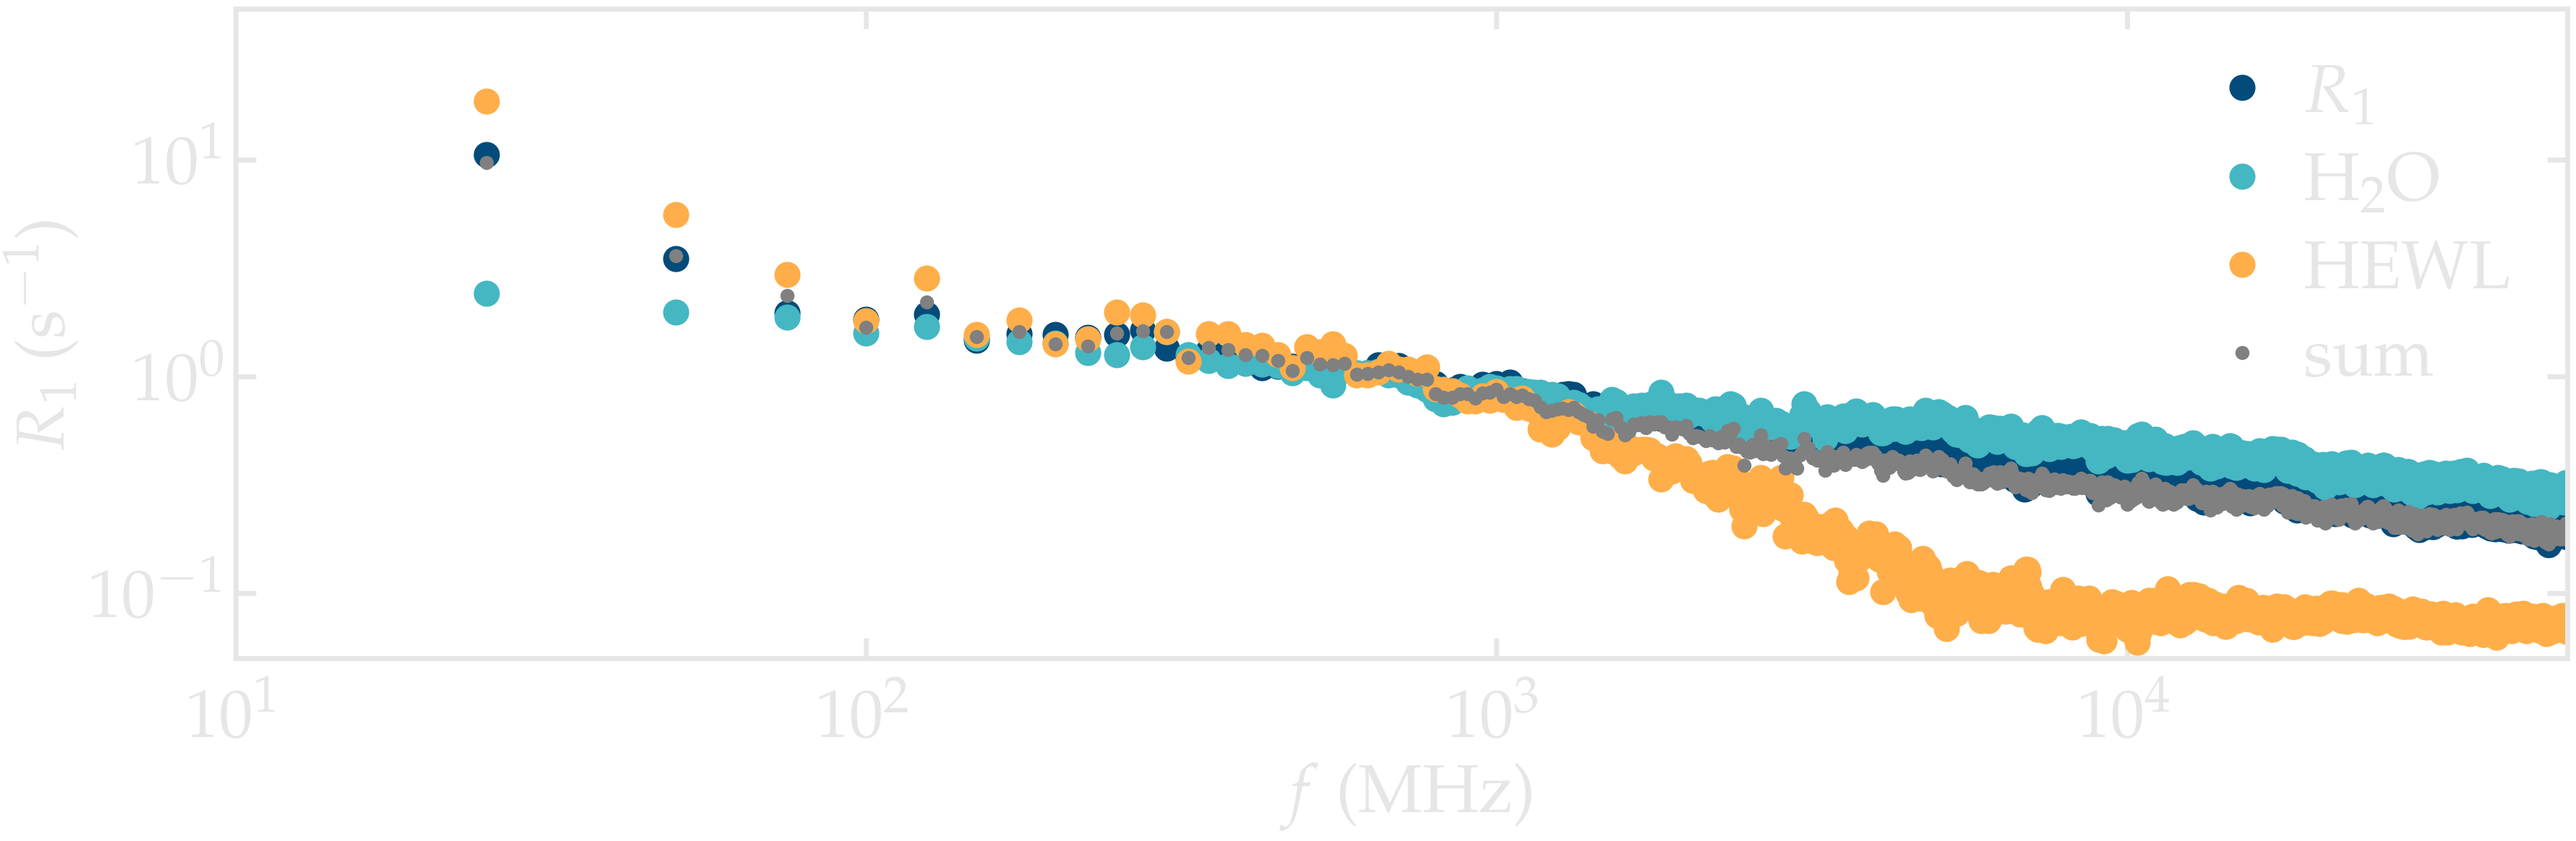
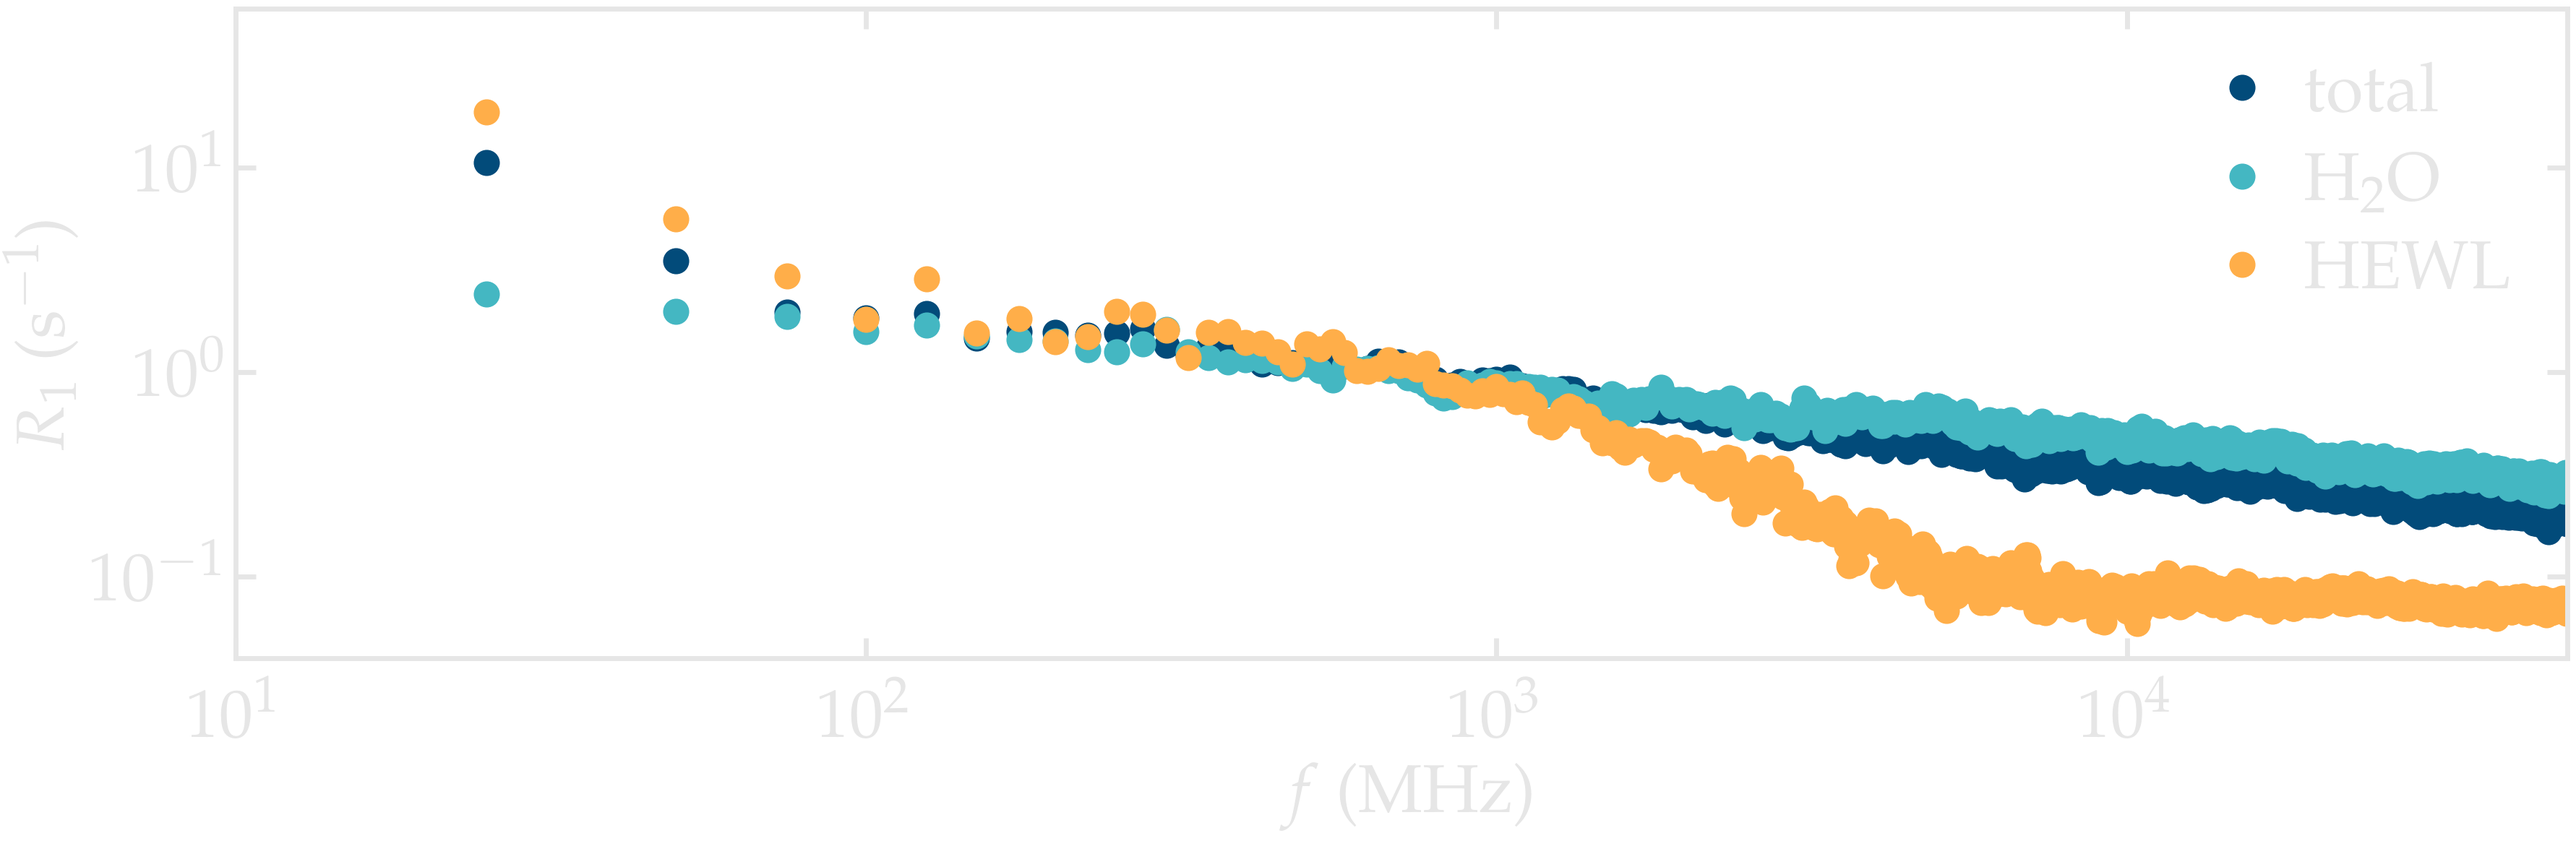
imporved doc
Former-commit-id: a4fa2726f0d06160c9fb92a78dceff1b825216d8
Former-commit-id: b8d48bc7022f2912509c9c4b5d5285401795105c
Former-commit-id: 8964b4582960914fc2e3017737a69c1969f4d4bd
Former-commit-id: 09a89d41f0e28e9ee38e49679bb82970bd068ea0

diff --git a/docs/source/illustrations/lysozyme-in-water.rst b/docs/source/illustrations/lysozyme-in-water.rst
@@ -24,7 +24,9 @@ MD system
 
 .. container:: justify
 
-    The system is...
+    The system is made of a lysozyme (HEWL) with 594 water molecules, which
+    corresponds to water-to-protein mass ratio of :math:`73\,\%`.
+    The simulation was made using GROMACS using a timestep of :math:`1\,\text{fs}`.
     
 .. container:: justify
 
@@ -34,3 +36,28 @@ MD system
 .. |repository-examples| raw:: html
 
    <a href="https://github.com/simongravelle/nmrformd-data" target="_blank">repository</a>
+
+Results
+-------
+
+.. container:: justify
+
+    NMR relaxation rate :math:`R_1` was measured. The spectra show variations
+    with the frequency :math:`f` down to frequency values as low as a few MegaHertz,
+    which is due to the lysozyme. The spectrum for water alone still shows
+    a slight variation with frequency, which is not the case for bulk water, and is 
+    likely induced by the interaction with the protein, as adsorbed water molecules
+    are expected to share the slower motion of the protein.
+
+.. image:: ../figures/illustrations/lysozyme-in-water/R1_spectra-dark.png
+    :class: only-dark
+    :alt: NMR results obtained from the LAMMPS simulation of water and lysozyme
+
+.. image:: ../figures/illustrations/lysozyme-in-water/R1_spectra-light.png
+    :class: only-light
+    :alt: NMR results obtained from the LAMMPS simulation of water and lysozyme
+
+.. container:: justify
+
+    **Figure:** NMR relaxation rate :math:`R_1` for water alone,
+    lysozyme alone, and the full system.
